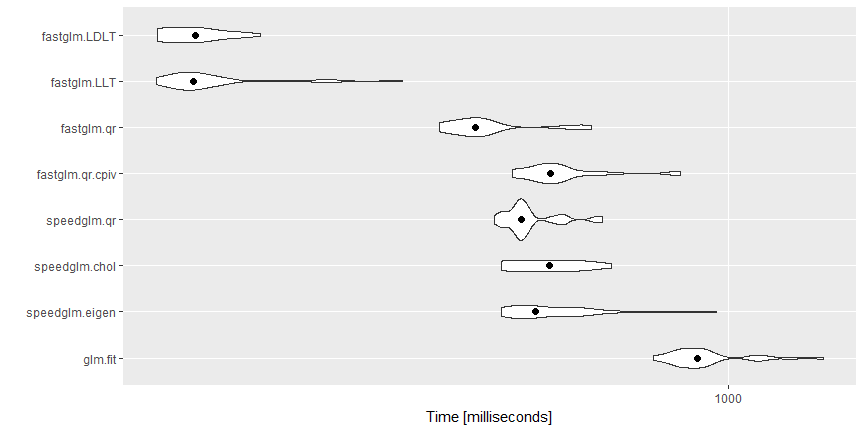
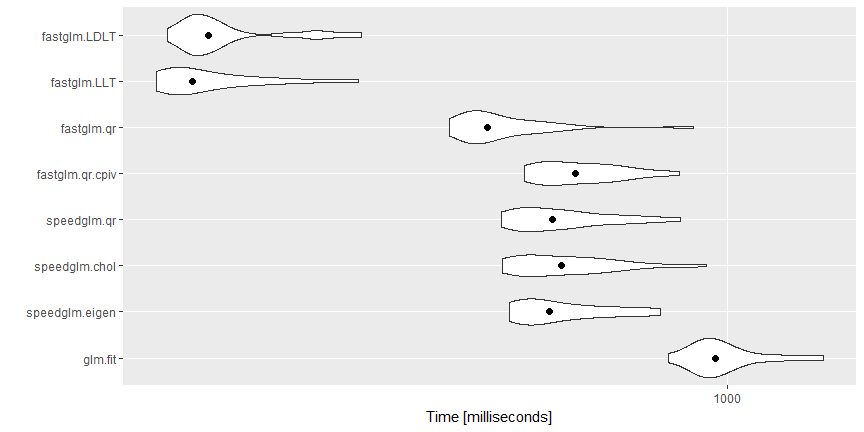
made initialization the same as glm()

diff --git a/README.html b/README.html
@@ -144,41 +144,41 @@ n.obs  &lt;- 10000
 n.vars &lt;- 100
 x &lt;- matrix(rnorm(n.obs * n.vars, sd = 3), n.obs, n.vars)
 
-y &lt;- 1 * (0.25 * x[,1] - 0.25 * x[,3] &gt; rnorm(n.obs))
+y &lt;- 1 * ( drop(x[,1:25] %*% runif(25, min = -0.1, max = 0.10)) &gt; rnorm(n.obs))
 
 ct &lt;- microbenchmark(
     glm.fit = {gl1 &lt;- glm.fit(x, y, family = binomial())},
-    speedglm.eigen = {sg1 &lt;- speedglm.wfit(y, x, intercept = FALSE,
-                                           family = binomial())},
-    speedglm.chol = {sg2 &lt;- speedglm.wfit(y, x, intercept = FALSE, 
-                                          family = binomial(), method = &quot;Chol&quot;)},
-    speedglm.qr = {sg3 &lt;- speedglm.wfit(y, x, intercept = FALSE,
-                                        family = binomial(), method = &quot;qr&quot;)},
+    speedglm.eigen  = {sg1 &lt;- speedglm.wfit(y, x, intercept = FALSE,
+                                            family = binomial())},
+    speedglm.chol   = {sg2 &lt;- speedglm.wfit(y, x, intercept = FALSE, 
+                                            family = binomial(), method = &quot;Chol&quot;)},
+    speedglm.qr     = {sg3 &lt;- speedglm.wfit(y, x, intercept = FALSE,
+                                            family = binomial(), method = &quot;qr&quot;)},
     fastglm.qr.cpiv = {gf1 &lt;- fastglm(x, y, family = binomial())},
-    fastglm.qr = {gf2 &lt;- fastglm(x, y, family = binomial(), method = 1)},
-    fastglm.LLT = {gf3 &lt;- fastglm(x, y, family = binomial(), method = 2)},
-    fastglm.LDLT = {gf4 &lt;- fastglm(x, y, family = binomial(), method = 3)},
+    fastglm.qr      = {gf2 &lt;- fastglm(x, y, family = binomial(), method = 1)},
+    fastglm.LLT     = {gf3 &lt;- fastglm(x, y, family = binomial(), method = 2)},
+    fastglm.LDLT    = {gf4 &lt;- fastglm(x, y, family = binomial(), method = 3)},
     times = 25L
 )
 
 autoplot(ct) + stat_summary(fun.y = median, geom = 'point', size = 2)</code></pre>
[2 lines of base64/hex data omitted]
 <pre class="r"><code># comparison of estimates
 max(abs(coef(gl1) - gf1$coef))</code></pre>
-<pre><code>## [1] 4.132162e-10</code></pre>
+<pre><code>## [1] 9.436896e-16</code></pre>
 <pre class="r"><code>max(abs(coef(gl1) - gf2$coef))</code></pre>
-<pre><code>## [1] 4.132166e-10</code></pre>
+<pre><code>## [1] 9.436896e-16</code></pre>
 <pre class="r"><code>max(abs(coef(gl1) - gf3$coef))</code></pre>
-<pre><code>## [1] 4.132164e-10</code></pre>
+<pre><code>## [1] 8.326673e-16</code></pre>
 <pre class="r"><code>max(abs(coef(gl1) - gf4$coef))</code></pre>
-<pre><code>## [1] 4.132162e-10</code></pre>
+<pre><code>## [1] 9.15934e-16</code></pre>
 <pre class="r"><code># now between glm and speedglm
 max(abs(coef(gl1) - sg1$coef))</code></pre>
-<pre><code>## [1] 2.164935e-15</code></pre>
+<pre><code>## [1] 1.387779e-15</code></pre>
 <pre class="r"><code>max(abs(coef(gl1) - sg2$coef))</code></pre>
-<pre><code>## [1] 2.164935e-15</code></pre>
+<pre><code>## [1] 1.387779e-15</code></pre>
 <pre class="r"><code>max(abs(coef(gl1) - sg3$coef))</code></pre>
-<pre><code>## [1] 2.220446e-15</code></pre>
+<pre><code>## [1] 1.471046e-15</code></pre>
 </div>
 
 

diff --git a/src/RcppExports.cpp b/src/RcppExports.cpp
@@ -29,8 +29,8 @@ BEGIN_RCPP
 END_RCPP
 }
 // fit_glm
-List fit_glm(Rcpp::NumericMatrix x, Rcpp::NumericVector y, Rcpp::NumericVector weights, Rcpp::NumericVector offset, Function var, Function mu_eta, Function linkinv, Function dev_resids, int type, double tol, int maxit);
-RcppExport SEXP _fastglm_fit_glm(SEXP xSEXP, SEXP ySEXP, SEXP weightsSEXP, SEXP offsetSEXP, SEXP varSEXP, SEXP mu_etaSEXP, SEXP linkinvSEXP, SEXP dev_residsSEXP, SEXP typeSEXP, SEXP tolSEXP, SEXP maxitSEXP) {
+List fit_glm(Rcpp::NumericMatrix x, Rcpp::NumericVector y, Rcpp::NumericVector weights, Rcpp::NumericVector offset, Rcpp::NumericVector start, Rcpp::NumericVector mu, Rcpp::NumericVector eta, Function var, Function mu_eta, Function linkinv, Function dev_resids, int type, double tol, int maxit);
+RcppExport SEXP _fastglm_fit_glm(SEXP xSEXP, SEXP ySEXP, SEXP weightsSEXP, SEXP offsetSEXP, SEXP startSEXP, SEXP muSEXP, SEXP etaSEXP, SEXP varSEXP, SEXP mu_etaSEXP, SEXP linkinvSEXP, SEXP dev_residsSEXP, SEXP typeSEXP, SEXP tolSEXP, SEXP maxitSEXP) {
 BEGIN_RCPP
     Rcpp::RObject rcpp_result_gen;
     Rcpp::RNGScope rcpp_rngScope_gen;
@@ -38,6 +38,9 @@ BEGIN_RCPP
     Rcpp::traits::input_parameter< Rcpp::NumericVector >::type y(ySEXP);
     Rcpp::traits::input_parameter< Rcpp::NumericVector >::type weights(weightsSEXP);
     Rcpp::traits::input_parameter< Rcpp::NumericVector >::type offset(offsetSEXP);
+    Rcpp::traits::input_parameter< Rcpp::NumericVector >::type start(startSEXP);
+    Rcpp::traits::input_parameter< Rcpp::NumericVector >::type mu(muSEXP);
+    Rcpp::traits::input_parameter< Rcpp::NumericVector >::type eta(etaSEXP);
     Rcpp::traits::input_parameter< Function >::type var(varSEXP);
     Rcpp::traits::input_parameter< Function >::type mu_eta(mu_etaSEXP);
     Rcpp::traits::input_parameter< Function >::type linkinv(linkinvSEXP);
@@ -45,7 +48,7 @@ BEGIN_RCPP
     Rcpp::traits::input_parameter< int >::type type(typeSEXP);
     Rcpp::traits::input_parameter< double >::type tol(tolSEXP);
     Rcpp::traits::input_parameter< int >::type maxit(maxitSEXP);
-    rcpp_result_gen = Rcpp::wrap(fit_glm(x, y, weights, offset, var, mu_eta, linkinv, dev_resids, type, tol, maxit));
+    rcpp_result_gen = Rcpp::wrap(fit_glm(x, y, weights, offset, start, mu, eta, var, mu_eta, linkinv, dev_resids, type, tol, maxit));
     return rcpp_result_gen;
 END_RCPP
 }
@@ -53,7 +56,7 @@ END_RCPP
 static const R_CallMethodDef CallEntries[] = {
     {"_fastglm_colMax_dense", (DL_FUNC) &_fastglm_colMax_dense, 1},
     {"_fastglm_colMin_dense", (DL_FUNC) &_fastglm_colMin_dense, 1},
-    {"_fastglm_fit_glm", (DL_FUNC) &_fastglm_fit_glm, 11},
+    {"_fastglm_fit_glm", (DL_FUNC) &_fastglm_fit_glm, 14},
     {NULL, NULL, 0}
 };
 

diff --git a/src/fit_glm_dense.cpp b/src/fit_glm_dense.cpp
@@ -17,6 +17,9 @@ List fastglm(Rcpp::NumericMatrix Xs,
              Rcpp::NumericVector ys, 
              Rcpp::NumericVector weightss,
              Rcpp::NumericVector offsets, 
+             Rcpp::NumericVector starts, 
+             Rcpp::NumericVector mus, 
+             Rcpp::NumericVector etas, 
              Function var, 
              Function mu_eta, 
              Function linkinv, 
@@ -29,16 +32,23 @@ List fastglm(Rcpp::NumericMatrix Xs,
     const Map<VectorXd>  y(as<Map<VectorXd> >(ys));
     const Map<VectorXd>  weights(as<Map<VectorXd> >(weightss));
     const Map<VectorXd>  offset(as<Map<VectorXd> >(offsets));
+    const Map<VectorXd>  beta_init(as<Map<VectorXd> >(starts));
+    const Map<VectorXd>  mu_init(as<Map<VectorXd> >(mus));
+    const Map<VectorXd>  eta_init(as<Map<VectorXd> >(etas));
     Index                n = X.rows();
     if ((Index)y.size() != n) throw invalid_argument("size mismatch");
     
     // instantiate fitting class
     GlmBase<Eigen::VectorXd, Eigen::MatrixXd> *glm_solver = NULL;
     
-    glm_solver = new glm(X, y, weights, offset, var, mu_eta, linkinv, dev_resids, tol, maxit, type);
+    glm_solver = new glm(X, y, weights, offset, 
+                         var, mu_eta, linkinv, dev_resids, 
+                         tol, maxit, type);
+    
     
     // initialize parameters
-    glm_solver->init_parms();
+    glm_solver->init_parms(beta_init, mu_init, eta_init);
+
     
     // maximize likelihood
     int iters = glm_solver->solve(maxit);
@@ -72,10 +82,11 @@ List fastglm(Rcpp::NumericMatrix Xs,
 
 
 // [[Rcpp::export]]
-List fit_glm(Rcpp::NumericMatrix x, Rcpp::NumericVector y, Rcpp::NumericVector weights, Rcpp::NumericVector offset, 
+List fit_glm(Rcpp::NumericMatrix x, Rcpp::NumericVector y, Rcpp::NumericVector weights, Rcpp::NumericVector offset,
+             Rcpp::NumericVector start, Rcpp::NumericVector mu, Rcpp::NumericVector eta,
              Function var, Function mu_eta, Function linkinv, Function dev_resids, int type, double tol, int maxit) 
 {
-    return fastglm(x, y, weights, offset, var, mu_eta, linkinv, dev_resids, type, tol, maxit);
+    return fastglm(x, y, weights, offset, start, mu, eta, var, mu_eta, linkinv, dev_resids, type, tol, maxit);
 }
 
 

diff --git a/src/glm_base.h b/src/glm_base.h
@@ -7,6 +7,8 @@
 using namespace Rcpp;
 using namespace std;
 
+using Eigen::Map;
+
 
 template<typename VecTypeX, typename MatTypeX>
 class GlmBase
@@ -112,7 +114,9 @@ public:
     
     virtual ~GlmBase() {}
     
-    virtual void init_parms() {}
+    virtual void init_parms(const Map<VecTypeX> & start_, 
+                            const Map<VecTypeX> & mu_,
+                            const Map<VecTypeX> & eta_) {}
     
     void update_beta()
     {
@@ -127,25 +131,26 @@ public:
         
         for(i = 0; i < maxit; ++i)
         {
-            
+
             update_var_mu();
-            
+
             update_mu_eta();
-            
+
             update_z();
-            
+
             update_w();
-            
+
             solve_wls();
-            
+
             update_eta();
-            
+
             update_mu();
-            
+
             update_dev_resids();
             
             if(converged())
                 break;
+
             
         }
         

diff --git a/src/glm.h b/src/glm.h
@@ -287,24 +287,26 @@ public:
     
     
     // must set params to starting vals
-    void init_parms()
+    void init_parms(const Map<VectorXd> & start_, 
+                    const Map<VectorXd> & mu_,
+                    const Map<VectorXd> & eta_)
     {
-        beta.setZero();
-        eta.setZero();
-        eta.array() += offset.array();
+        beta = start_;
+        eta = eta_;
+        mu = mu_;
+        //eta.array() += offset.array();
         
-        update_var_mu();
+        //update_var_mu();
         
-        update_mu_eta();
+        //update_mu_eta();
         
-        update_mu();
+        //update_mu();
         
-        NumericVector dev_resids = dev_resids_fun(Y, mu, weights);
-        dev = sum(dev_resids);
+        update_dev_resids();
         
-        update_z();
+        //update_z();
         
-        update_w();
+        //update_w();
         
         rank = nvars;
     }

diff --git a/README.md b/README.md
@@ -44,20 +44,20 @@ n.obs  <- 10000
 n.vars <- 100
 x <- matrix(rnorm(n.obs * n.vars, sd = 3), n.obs, n.vars)
 
-y <- 1 * (0.25 * x[,1] - 0.25 * x[,3] > rnorm(n.obs))
+y <- 1 * ( drop(x[,1:25] %*% runif(25, min = -0.1, max = 0.10)) > rnorm(n.obs))
 
 ct <- microbenchmark(
     glm.fit = {gl1 <- glm.fit(x, y, family = binomial())},
-    speedglm.eigen = {sg1 <- speedglm.wfit(y, x, intercept = FALSE,
-                                           family = binomial())},
-    speedglm.chol = {sg2 <- speedglm.wfit(y, x, intercept = FALSE, 
-                                          family = binomial(), method = "Chol")},
-    speedglm.qr = {sg3 <- speedglm.wfit(y, x, intercept = FALSE,
-                                        family = binomial(), method = "qr")},
+    speedglm.eigen  = {sg1 <- speedglm.wfit(y, x, intercept = FALSE,
+                                            family = binomial())},
+    speedglm.chol   = {sg2 <- speedglm.wfit(y, x, intercept = FALSE, 
+                                            family = binomial(), method = "Chol")},
+    speedglm.qr     = {sg3 <- speedglm.wfit(y, x, intercept = FALSE,
+                                            family = binomial(), method = "qr")},
     fastglm.qr.cpiv = {gf1 <- fastglm(x, y, family = binomial())},
-    fastglm.qr = {gf2 <- fastglm(x, y, family = binomial(), method = 1)},
-    fastglm.LLT = {gf3 <- fastglm(x, y, family = binomial(), method = 2)},
-    fastglm.LDLT = {gf4 <- fastglm(x, y, family = binomial(), method = 3)},
+    fastglm.qr      = {gf2 <- fastglm(x, y, family = binomial(), method = 1)},
+    fastglm.LLT     = {gf3 <- fastglm(x, y, family = binomial(), method = 2)},
+    fastglm.LDLT    = {gf4 <- fastglm(x, y, family = binomial(), method = 3)},
     times = 25L
 )
 
@@ -72,7 +72,7 @@ max(abs(coef(gl1) - gf1$coef))
 ```
 
 ```
-## [1] 4.132162e-10
+## [1] 9.436896e-16
 ```
 
 ```r
@@ -80,7 +80,7 @@ max(abs(coef(gl1) - gf2$coef))
 ```
 
 ```
-## [1] 4.132166e-10
+## [1] 9.436896e-16
 ```
 
 ```r
@@ -88,7 +88,7 @@ max(abs(coef(gl1) - gf3$coef))
 ```
 
 ```
-## [1] 4.132164e-10
+## [1] 8.326673e-16
 ```
 
 ```r
@@ -96,7 +96,7 @@ max(abs(coef(gl1) - gf4$coef))
 ```
 
 ```
-## [1] 4.132162e-10
+## [1] 9.15934e-16
 ```
 
 ```r
@@ -105,7 +105,7 @@ max(abs(coef(gl1) - sg1$coef))
 ```
 
 ```
-## [1] 2.164935e-15
+## [1] 1.387779e-15
 ```
 
 ```r
@@ -113,7 +113,7 @@ max(abs(coef(gl1) - sg2$coef))
 ```
 
 ```
-## [1] 2.164935e-15
+## [1] 1.387779e-15
 ```
 
 ```r
@@ -121,5 +121,5 @@ max(abs(coef(gl1) - sg3$coef))
 ```
 
 ```
-## [1] 2.220446e-15
+## [1] 1.471046e-15
 ```
